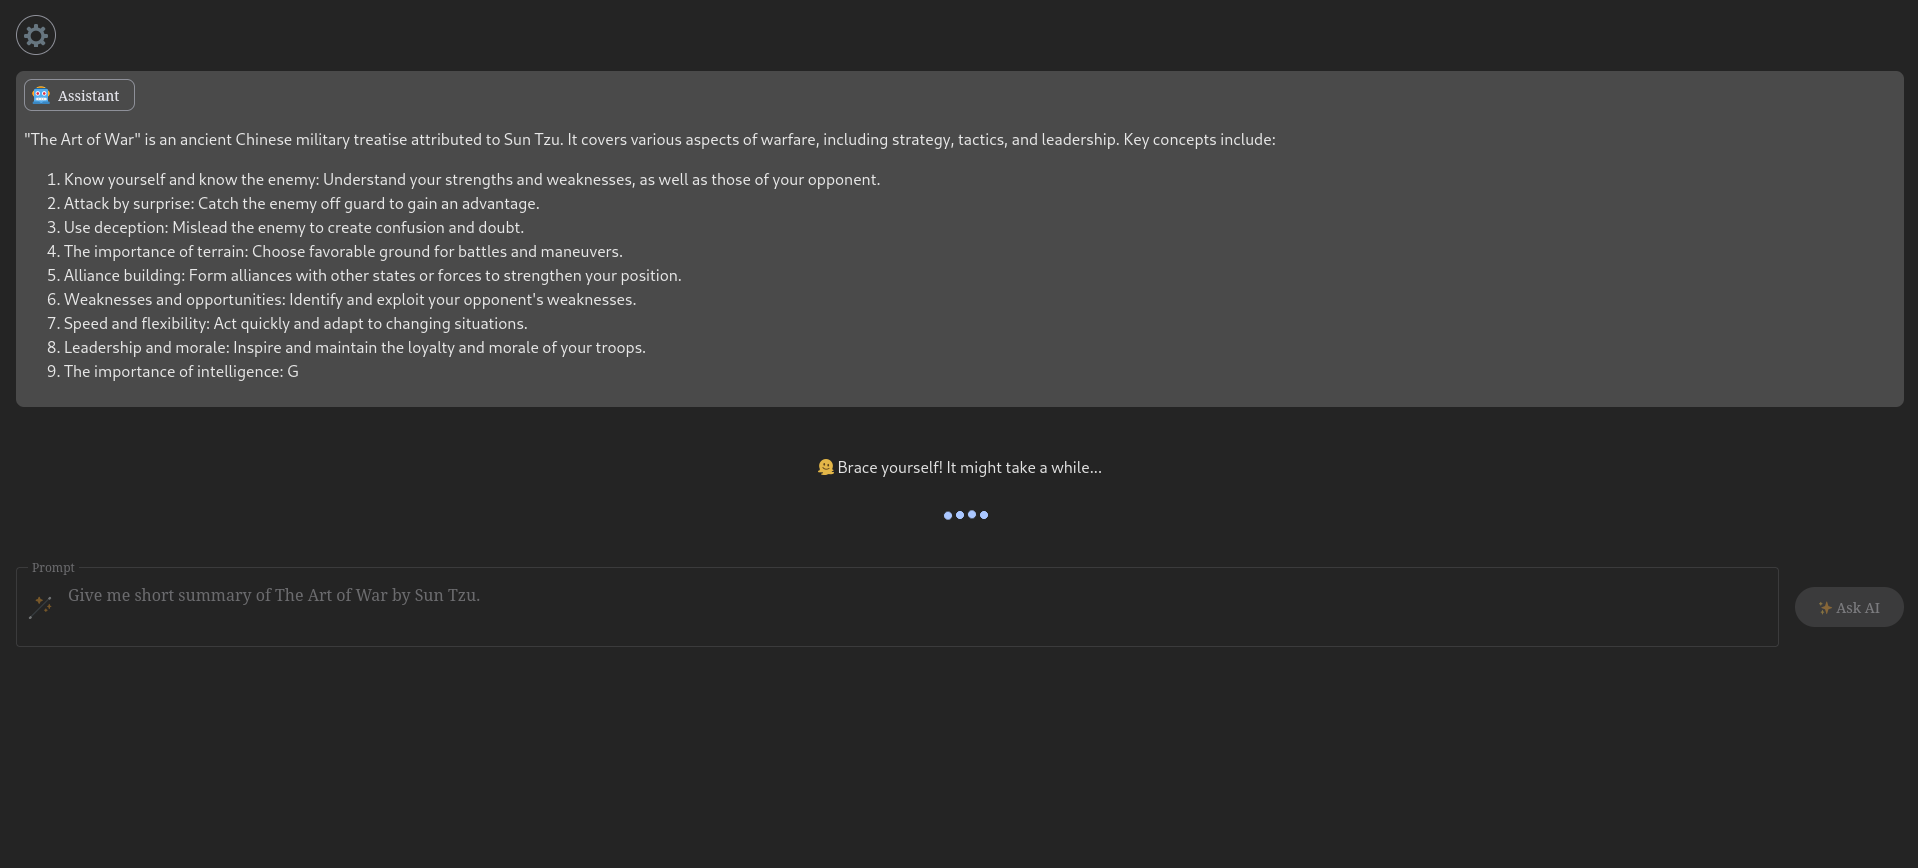
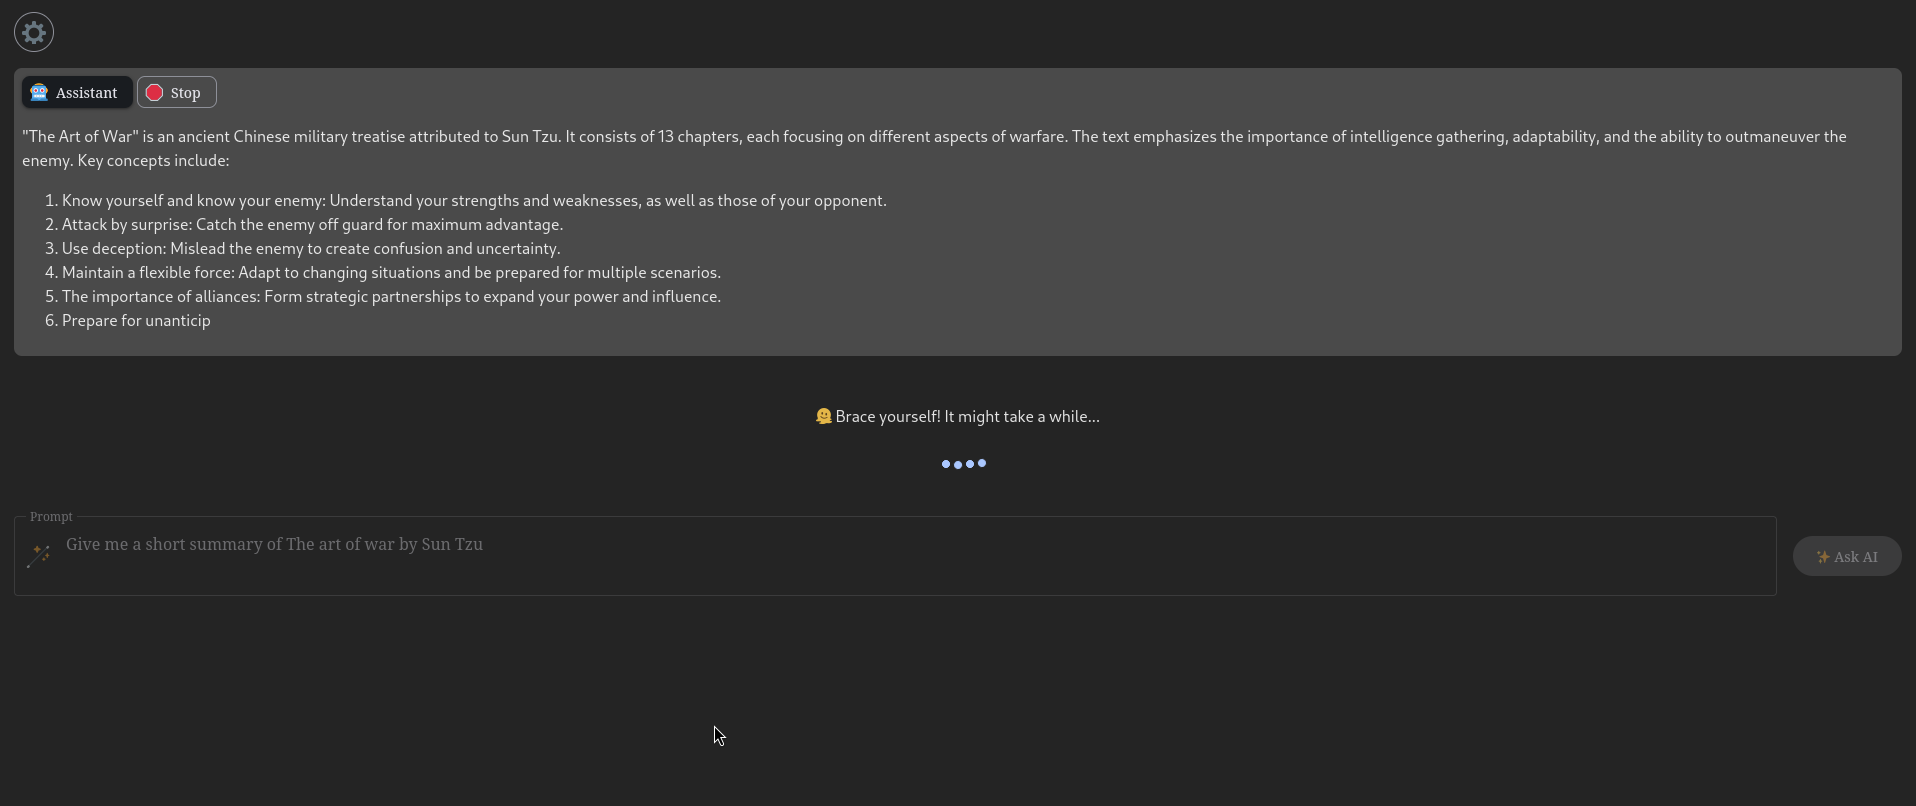
Abort requests functionality and UI tweaks

Changed region(s): [[0.0, 0.031, 1.0, 0.6203], [0.0308, 0.6514, 0.2463, 0.7134], [0.9546, 0.6824, 0.9854, 0.7134]]

diff --git a/lib/components/acw-root.ts b/lib/components/acw-root.ts
@@ -54,6 +54,8 @@ class ACWRoot extends LitElement {
     })
   )
 
+  private _askController = new AbortController();
+
   async connectedCallback(): Promise<void> {
     super.connectedCallback();
 
@@ -84,8 +86,17 @@ class ACWRoot extends LitElement {
         })}
       >
         ${message.role === 'assistant' ? html`
-          <md-assist-chip label="Assistant">
+          <md-assist-chip label="Assistant" elevated>
             <md-icon slot="icon">🤖</md-icon>
+          </md-assist-chip>
+        ` : nothing}
+
+        ${this._loading ? html`
+          <md-assist-chip
+            label="Stop"
+            @click=${() => this._askController.abort()}
+          >
+            <md-icon slot="icon">🛑</md-icon>
           </md-assist-chip>
         ` : nothing}
 
@@ -131,7 +142,7 @@ class ACWRoot extends LitElement {
     }
 
     return html`
-      <div ?inert=${Boolean(this._modalVariant)}>
+      <div>
         ${this.renderSettings()}
 
         ${Array.isArray(this._messages) && this._messages.length > 0
@@ -187,9 +198,10 @@ class ACWRoot extends LitElement {
   private async _ask(prompt: string | null) {
     this._messages = null;
     this._loading = true;
+    this._askController = new AbortController();
 
     try {
-      const response = await chatCompletions(prompt);
+      const response = await chatCompletions(prompt, this._askController.signal);
       const decoder = new TextDecoder()
 
       if (!response?.body) {

diff --git a/lib/api/chat.ts b/lib/api/chat.ts
@@ -21,7 +21,7 @@ export type ApiError = {
 
 export type CompletionResponse = Completion | ApiError
 
-export const chatCompletions = async (prompt: string | null) => {
+export const chatCompletions = async (prompt: string | null, signal?: Object) => {
   const api = await setupAPI();
 
   if (typeof prompt !== 'string' || prompt.length < 2) {
@@ -38,5 +38,6 @@ export const chatCompletions = async (prompt: string | null) => {
       temperature: 0.5,
       stream: true,
     },
+    signal,
   });
 };

diff --git a/lib/components/acw-settings.ts b/lib/components/acw-settings.ts
@@ -252,6 +252,9 @@ export class ACWSettings extends LitElement {
       border: 1px solid color-mix(in oklab, currentColor 70%, transparent);
       border-radius: 8px;
     }
+    dialog::backdrop {
+      backdrop-filter: blur(1px);
+    }
     :host::part(header) {
       display: flex;
       align-items: center;

diff --git a/CHANGELOG.md b/CHANGELOG.md
@@ -1,5 +1,11 @@
 # @rumenpetrov/ai-chat-widget
 
+## 0.0.17
+
+### Patch Changes
+
+- Abort requests functionality and UI tweaks
+
 ## 0.0.16
 
 ### Patch Changes
